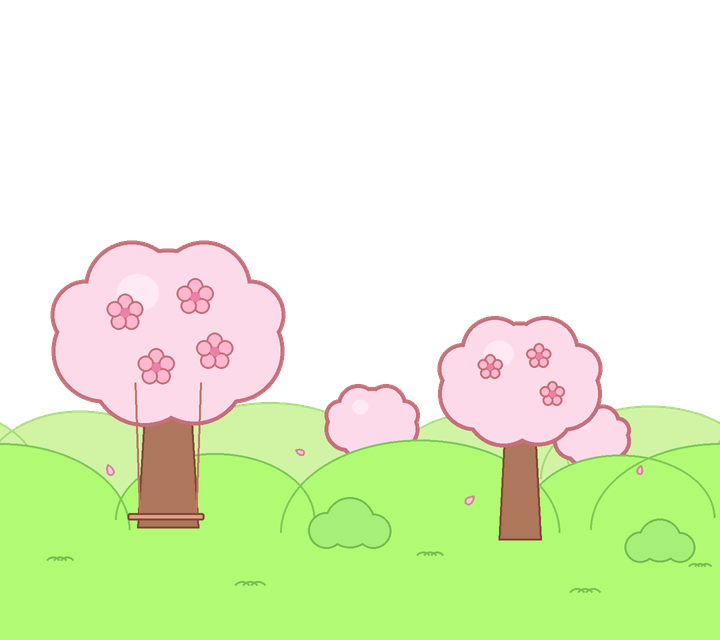
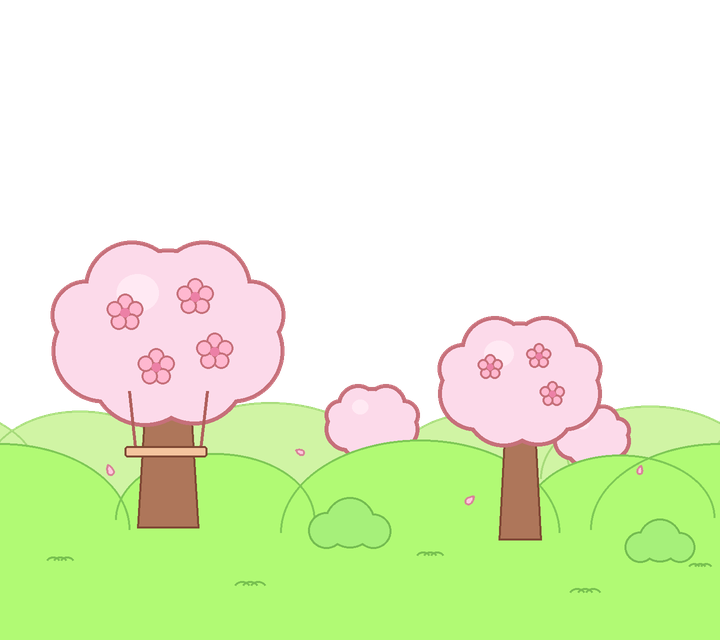
打磨秋千可见性并将菜单文案对齐樱花主题

Changed region(s): [[0.1528, 0.5938, 0.3056, 0.8125]]

diff --git a/src/App.tsx b/src/App.tsx
@@ -139,7 +139,7 @@ function App() {
             {screen === 'menu' && (
                 <section className="menu-layer" aria-label="开始游戏">
                     <div className="title-block">
-                        <p className="eyebrow">穿过城市天际线</p>
+                        <p className="eyebrow">穿过樱花花海</p>
                         <h1>SKYLINE<br />HOP</h1>
                     </div>
 

diff --git a/scripts/generate_assets.py b/scripts/generate_assets.py
@@ -379,13 +379,13 @@ def draw_tree(img: Image.Image, cx: int, cy: int, r: int, ground: int, ss: int,
             fx, fy = spots[i % len(spots)]
             draw_blossom(d, x + fx * r, cy + fy * r, max(4 * ss, r // 7), ow=2 * ss)
         if with_swing:
-            # 秋千挂在树冠下方、街面层上缘之上，保证可见
-            sy = min(cy + round(r * 1.55), 468 * ss)
+            # 秋千挂在树冠下方、街面层上缘之上，保证绳与座椅都清晰可见
+            sy = min(cy + round(r * 1.5), 460 * ss)
             for k in (-1, 1):
-                d.line([x + k * r * 0.46, cy + r * 0.72, x + k * r * 0.38, sy - 6 * ss],
-                       fill=(192, 114, 104), width=2 * ss)
-            d.rounded_rectangle([x - r * 0.5, sy - 7 * ss, x + r * 0.44, sy], radius=2 * ss,
-                                fill=(228, 158, 138), outline=TRUNK_OUTLINE, width=2 * ss)
+                d.line([x + k * r * 0.5, cy + r * 0.66, x + k * r * 0.42, sy - 10 * ss],
+                       fill=(176, 96, 92), width=3 * ss)
+            d.rounded_rectangle([x - r * 0.56, sy - 11 * ss, x + r * 0.5, sy], radius=3 * ss,
+                                fill=(244, 196, 158), outline=TRUNK_OUTLINE, width=2 * ss)
 
 
 def draw_bush(img: Image.Image, cx: int, cy: int, s: int, ss: int, W: int) -> None:
